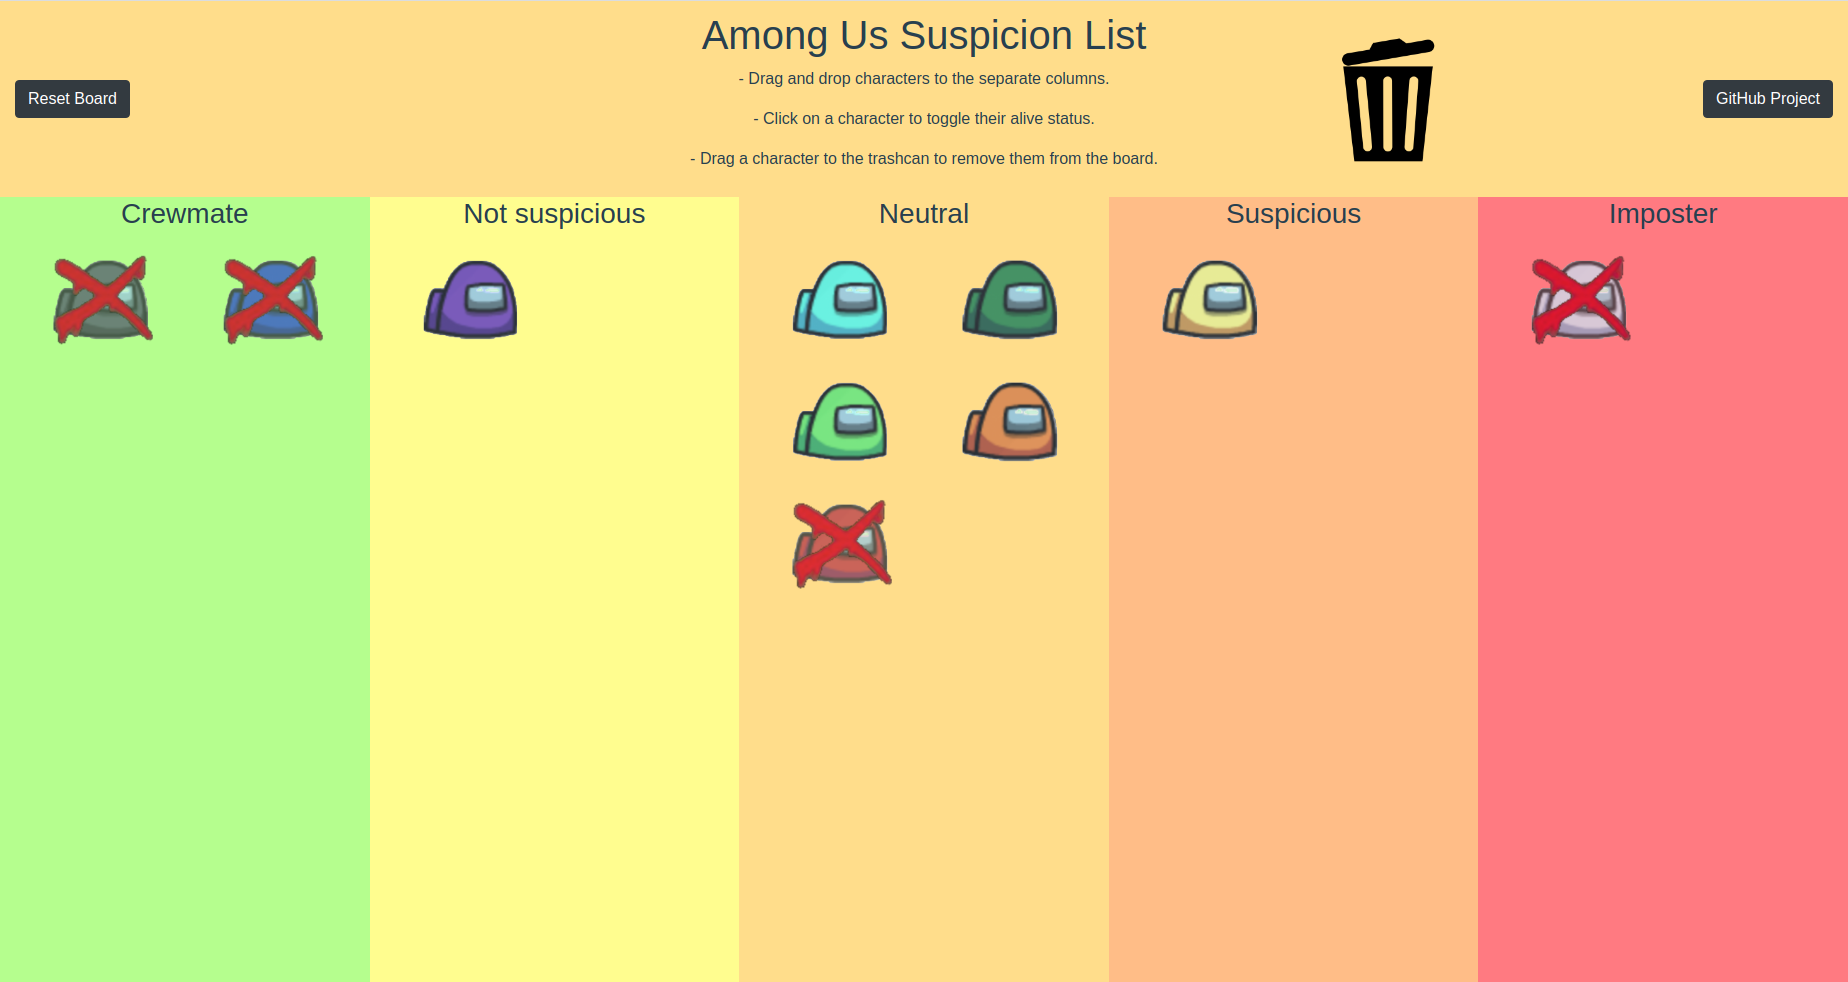
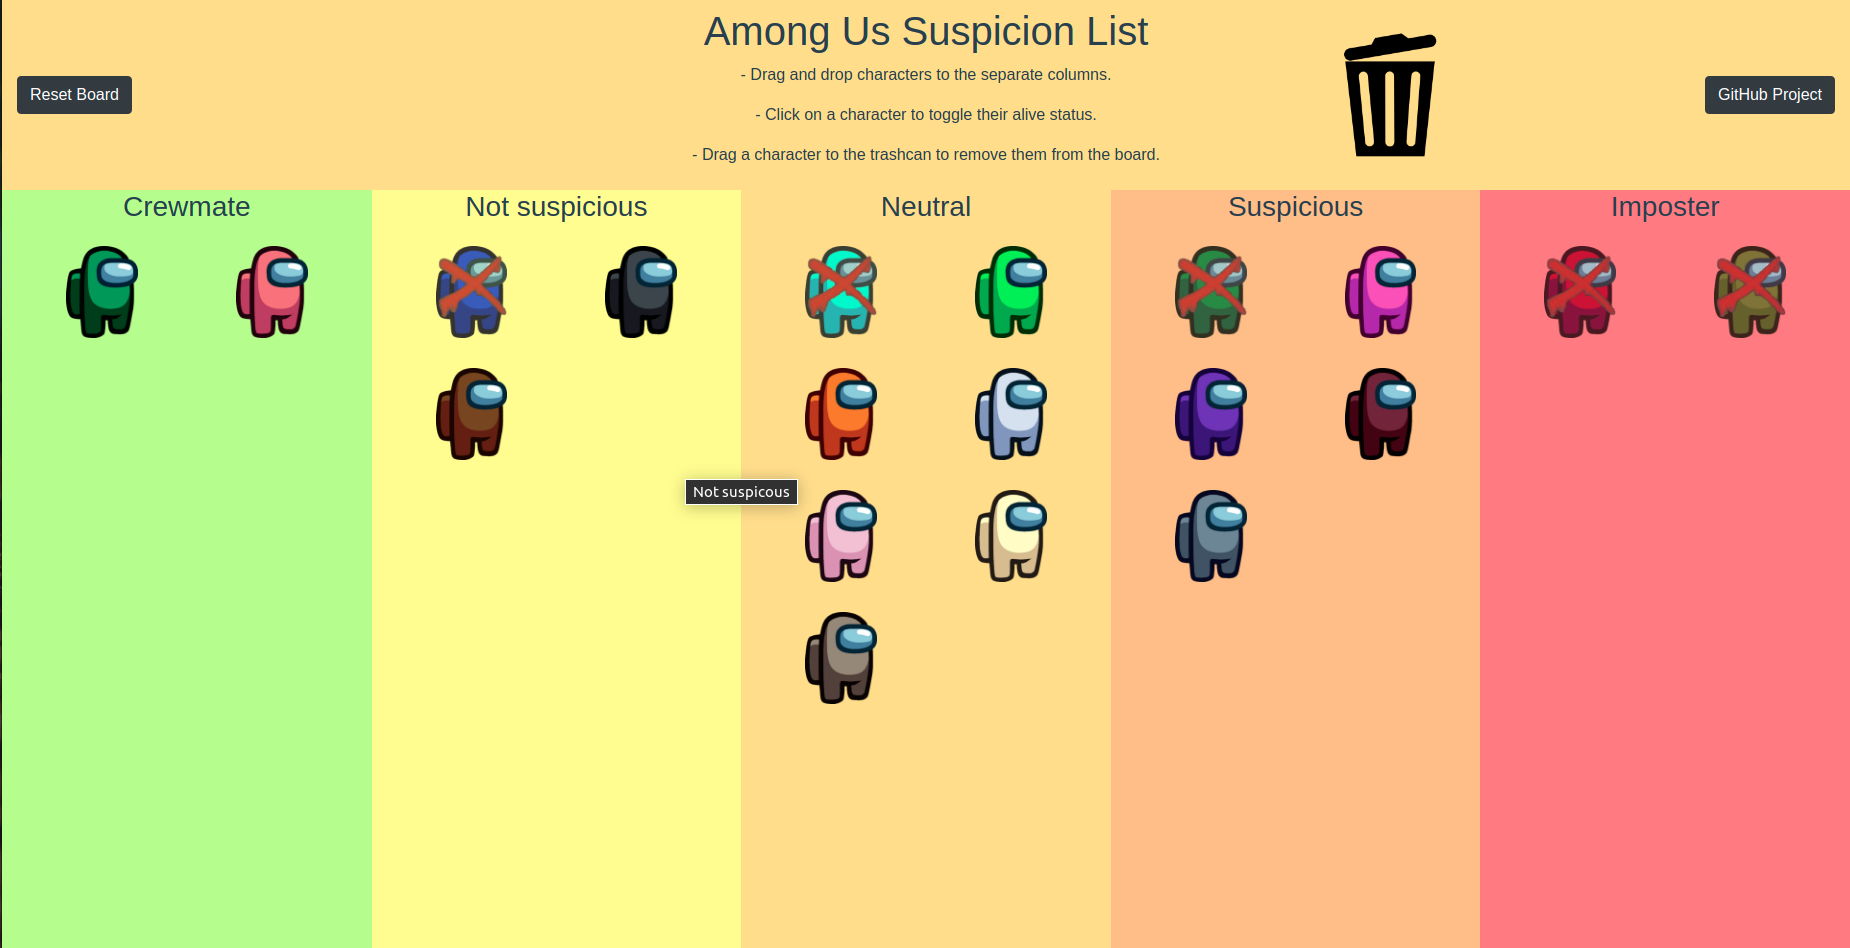
update for new colors

diff --git a/src/components/DashBoard.vue b/src/components/DashBoard.vue
@@ -97,14 +97,14 @@ export default {
           { color: "Purple", image: "purple.png", dead_image: "purple-dead.png", alive:true },
           { color: "Red", image: "red.png", dead_image: "red-dead.png", alive:true },
           { color: "White", image: "white.png", dead_image: "white-dead.png", alive:true },
-          { color: "Yellow", image: "maroon.png", dead_image: "maroon-dead.png", alive:true },
-          { color: "Yellow", image: "rose.png", dead_image: "rose-dead.png", alive:true },
-          { color: "Yellow", image: "banana.png", dead_image: "banana-dead.png", alive:true },
-          { color: "Yellow", image: "gray.png", dead_image: "gray-dead.png", alive:true },
-          { color: "Yellow", image: "tan.png", dead_image: "tan-dead.png", alive:true },
-          { color: "Yellow", image: "coral.png", dead_image: "coral-dead.png", alive:true },
-          { color: "Yellow", image: "fortegreen.png", dead_image: "fortegreen-dead.png", alive:true },
-          { color: "Yellow", image: "olive.png", dead_image: "olive-dead.png", alive:true }
+          { color: "Maroon", image: "maroon.png", dead_image: "maroon-dead.png", alive:true },
+          { color: "Rose", image: "rose.png", dead_image: "rose-dead.png", alive:true },
+          { color: "Banana", image: "banana.png", dead_image: "banana-dead.png", alive:true },
+          { color: "Gray", image: "gray.png", dead_image: "gray-dead.png", alive:true },
+          { color: "Tan", image: "tan.png", dead_image: "tan-dead.png", alive:true },
+          { color: "Coral", image: "coral.png", dead_image: "coral-dead.png", alive:true },
+          { color: "Fortegreen", image: "fortegreen.png", dead_image: "fortegreen-dead.png", alive:true },
+          { color: "Olive", image: "olive.png", dead_image: "olive-dead.png", alive:true }
         ],
         SuspiciousList: [],
         ImposterList: [],
@@ -135,18 +135,25 @@ export default {
       reset() {
         this.CrewmateList = []; this.NotSuspiciousList = []; this.SuspiciousList = []; this.ImposterList = []; this.TrashcanList = [];
         this.NeutralList = [
-          { color: "Black", image: "blackcrewpng.png", dead_image: "blackcrewpng-dead.png", alive:true },
-          { color: "Blue", image: "bluecrewpng.png", dead_image: "bluecrewpng-dead.png", alive:true },
-          { color: "Brown", image: "browncrewpng.png", dead_image: "browncrewpng-dead.png", alive:true },
-          { color: "Cyan", image: "cyancrewpng.png", dead_image: "cyancrewpng-dead.png", alive:true },
-          { color: "Green", image: "greencrewpng.png", dead_image: "greencrewpng-dead.png", alive:true },
-          { color: "Lime", image: "limecrewpng.png", dead_image: "limecrewpng-dead.png", alive:true },
-          { color: "Orange", image: "orangecrewpng.png", dead_image: "orangecrewpng-dead.png", alive:true },
-          { color: "Pink", image: "pinkcrewpng.png", dead_image: "pinkcrewpng-dead.png", alive:true },
-          { color: "Purple", image: "purplecrewpng.png", dead_image: "purplecrewpng-dead.png", alive:true },
-          { color: "Red", image: "redcrewpng.png", dead_image: "redcrewpng-dead.png", alive:true },
-          { color: "White", image: "whitecrewpng.png", dead_image: "whitecrewpng-dead.png", alive:true },
-          { color: "Yellow", image: "yellowcrewpng.png", dead_image: "yellowcrewpng-dead.png", alive:true }
+          { color: "Black", image: "black.png", dead_image: "black-dead.png", alive:true },
+          { color: "Blue", image: "blue.png", dead_image: "blue-dead.png", alive:true },
+          { color: "Brown", image: "brown.png", dead_image: "brown-dead.png", alive:true },
+          { color: "Cyan", image: "cyan.png", dead_image: "cyan-dead.png", alive:true },
+          { color: "Green", image: "green.png", dead_image: "green-dead.png", alive:true },
+          { color: "Lime", image: "lime.png", dead_image: "lime-dead.png", alive:true },
+          { color: "Orange", image: "orange.png", dead_image: "orange-dead.png", alive:true },
+          { color: "Pink", image: "pink.png", dead_image: "pink-dead.png", alive:true },
+          { color: "Purple", image: "purple.png", dead_image: "purple-dead.png", alive:true },
+          { color: "Red", image: "red.png", dead_image: "red-dead.png", alive:true },
+          { color: "White", image: "white.png", dead_image: "white-dead.png", alive:true },
+          { color: "Maroon", image: "maroon.png", dead_image: "maroon-dead.png", alive:true },
+          { color: "Rose", image: "rose.png", dead_image: "rose-dead.png", alive:true },
+          { color: "Banana", image: "banana.png", dead_image: "banana-dead.png", alive:true },
+          { color: "Gray", image: "gray.png", dead_image: "gray-dead.png", alive:true },
+          { color: "Tan", image: "tan.png", dead_image: "tan-dead.png", alive:true },
+          { color: "Coral", image: "coral.png", dead_image: "coral-dead.png", alive:true },
+          { color: "Fortegreen", image: "fortegreen.png", dead_image: "fortegreen-dead.png", alive:true },
+          { color: "Olive", image: "olive.png", dead_image: "olive-dead.png", alive:true }
         ];
       }
     }

diff --git a/src/components/Card.vue b/src/components/Card.vue
@@ -33,8 +33,8 @@
 .card {
   display: inline-block;
   border: none;
-  height: 100%;
-  width: 100%;
+  height: 75%;
+  width: 75%;
   border-radius: 10px;
   background-color: transparent;
 }
